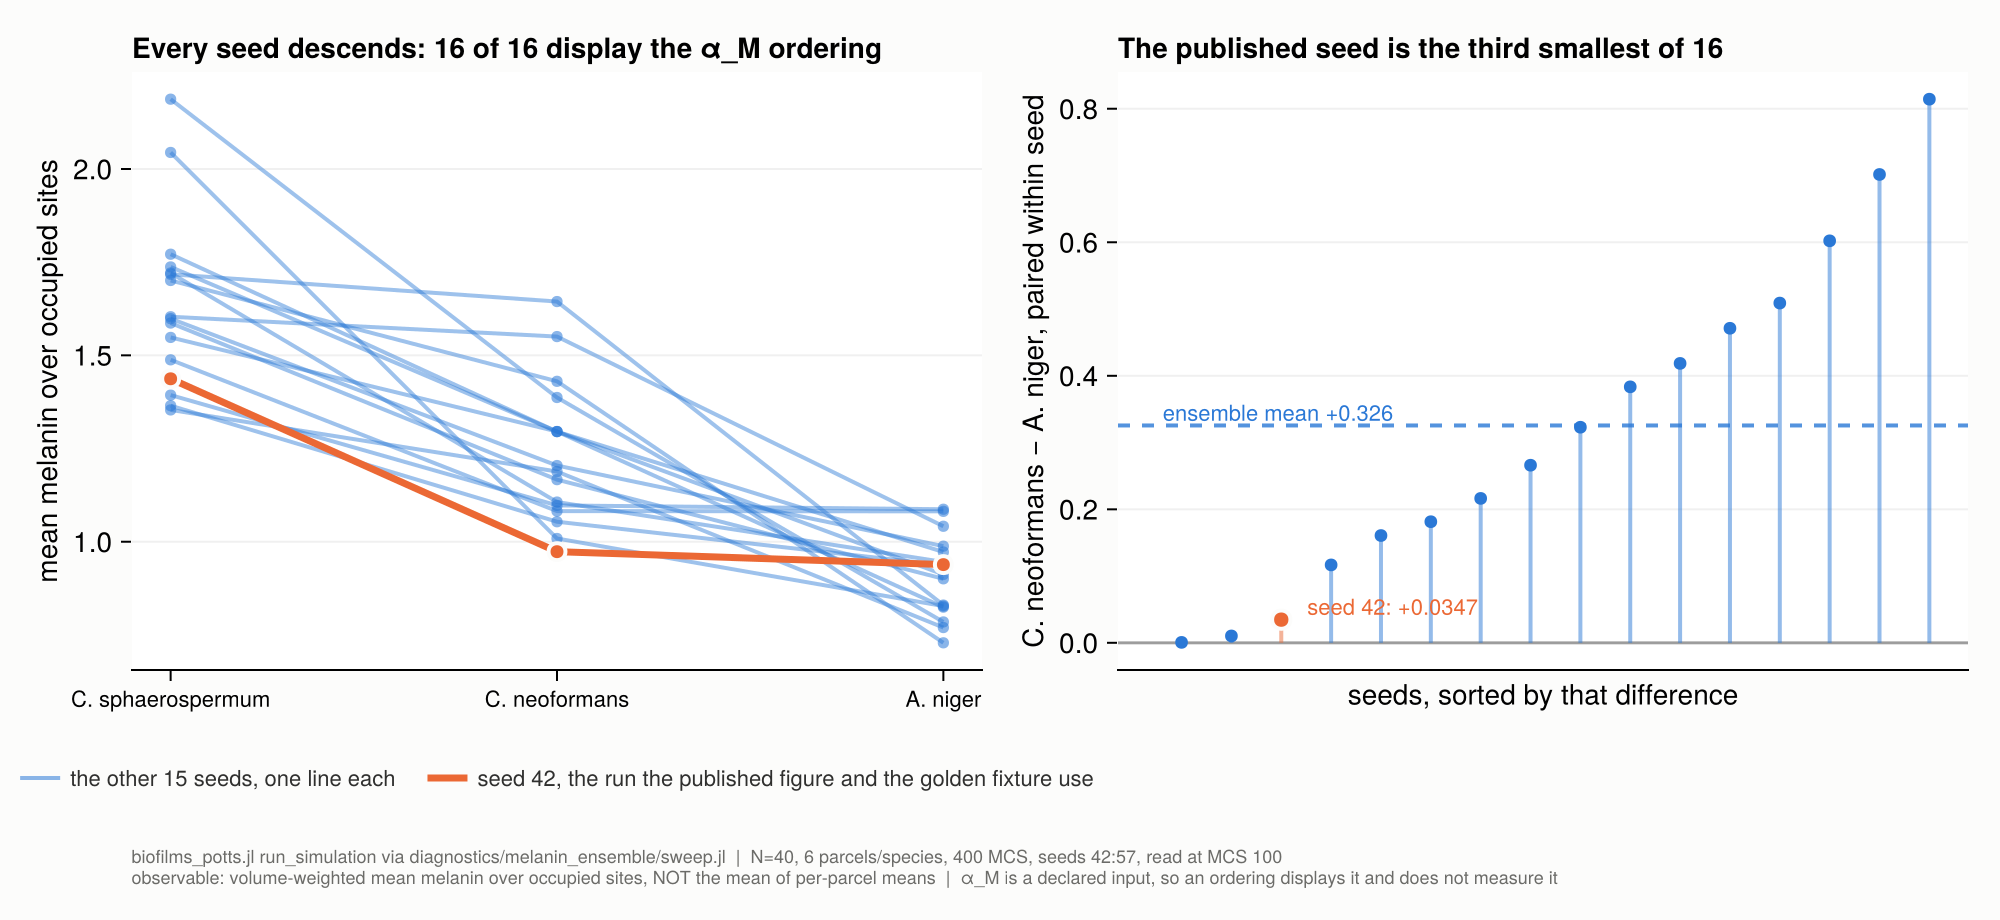
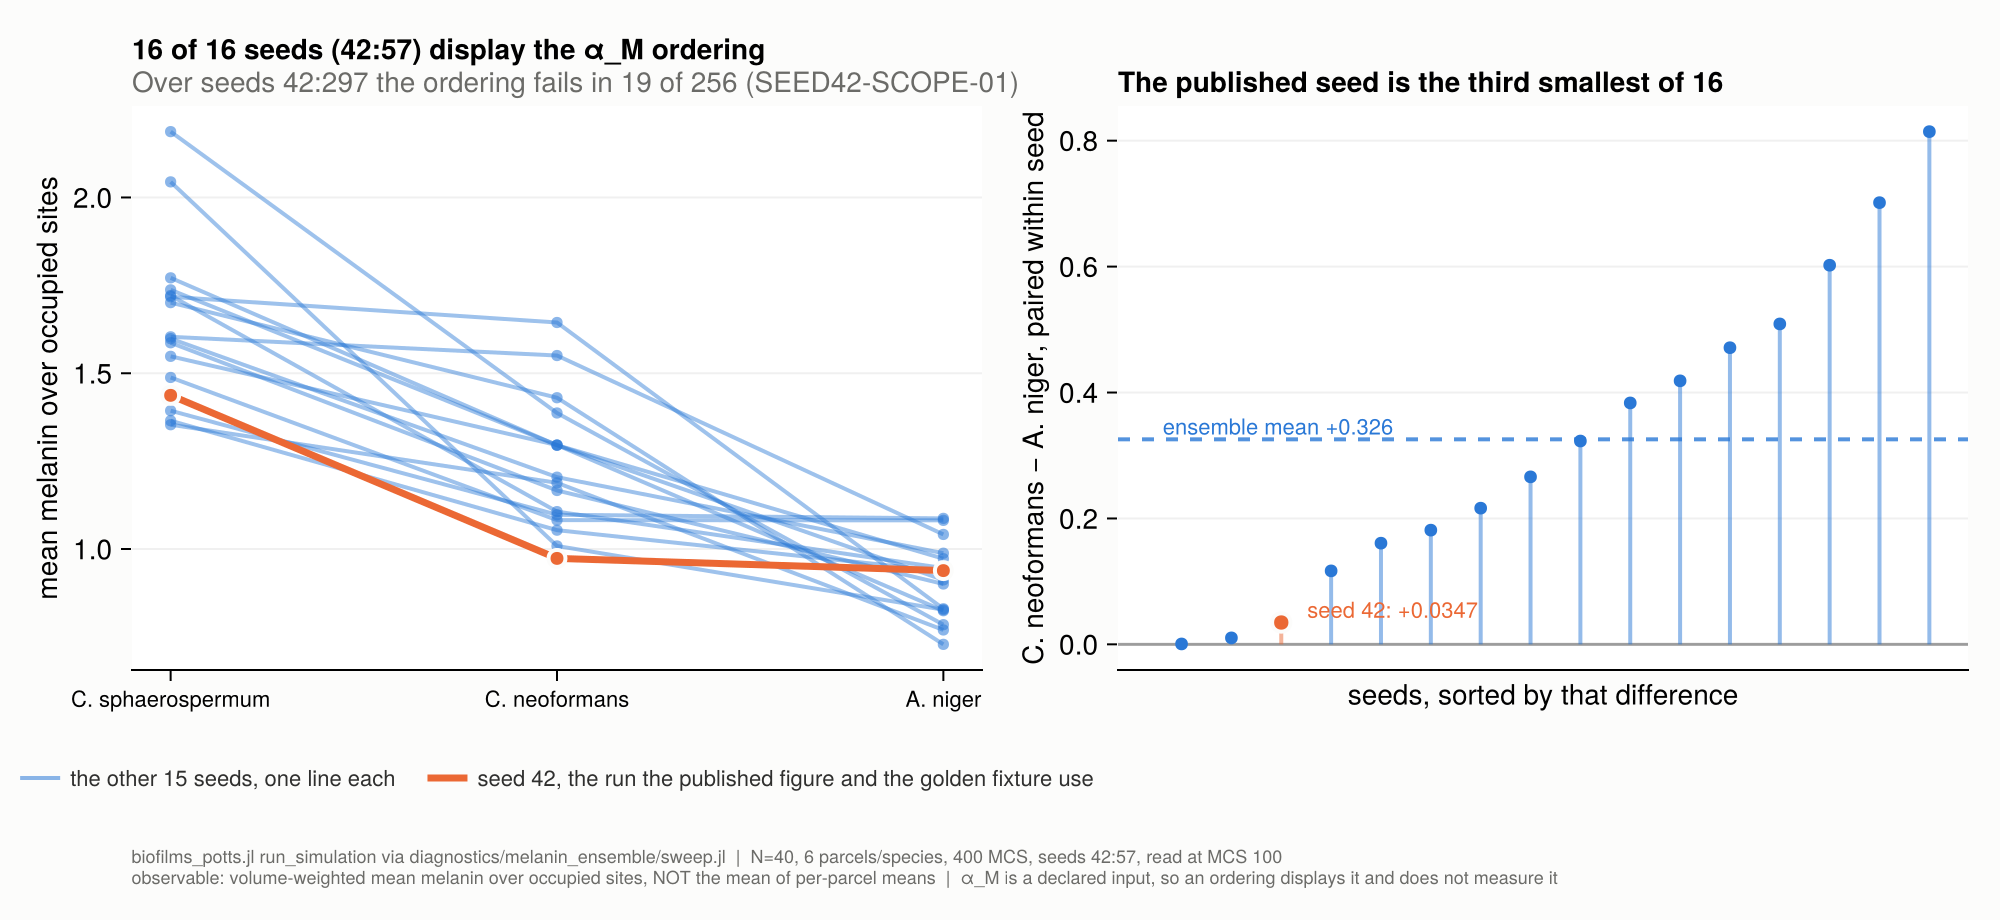
The melanin figure hashes its PDF, is held to the preprint contract, and scopes its title
figure.jl wrote the PNG's hash into its .sha256 and said that made it compliant
with preprint/figures/, whose guard compares the receipt against the PDF. The
PNG was chosen because cairo stamps a CreationDate into the PDF; that bought a
render-stable hash nothing checked and left the PDF the .txt is read from
unbound. It now hashes the PDF, as every other renderer does.

FIGURES is a tuple that includes diagnostics/melanin_ensemble, so the hash,
pdftotext and vocabulary checks read it. The widened hash check failed on
exactly this figure before the re-render. A new control rejects the PNG's hash
(the old receipt) and a one-byte-flipped PDF, and fails when the comparison is
weakened.

The re-render also rescopes panel A: "Every seed descends: 16 of 16" becomes
"16 of 16 seeds (42:57)", with the SEED42-SCOPE-01 result (19 of 256 fail over
42:297) beneath it. MEL-N40-01 gets a dated note; MEL-FIG-HASH-01 records this.
N_CITATIONS 161 -> 163.

diff --git a/calibration/tests/test_claims_ledger.py b/calibration/tests/test_claims_ledger.py
@@ -144,7 +144,15 @@ FIXTURES = Path(__file__).resolve().parent / "fixtures"
 # (RM-G08-01, RM-G10-01, PP-65-08, the last saying in as many words that "the
 # committed PNGs still carry the old reversed zone labels"); the artifact went on
 # saying the retracted thing for two weeks because nothing could fail.
-FIGURES = REPO / "preprint" / "figures"
+# The directories whose figures carry the <name>.pdf/.sha256/.txt contract. The second
+# is a diagnostic, not a manuscript figure; its generator said it was already compliant
+# while hashing its PNG, and nothing here read it (MEL-FIG-HASH-01).
+FIGURES = (REPO / "preprint" / "figures",
+           REPO / "diagnostics" / "melanin_ensemble")
+
+
+def figure_pdfs() -> list[Path]:
+    return sorted(p for d in FIGURES for p in d.glob("*.pdf"))
 
 
 def document_path(document: str) -> Path | None:
@@ -999,7 +1007,8 @@ RETRACTED_IN_FIGURES = ("radiotroph", "gy cumulative",
 
 
 def figure_sidecars() -> list[Path]:
-    return sorted(FIGURES.glob("*.txt"))
+    # Beside a PDF, not every .txt: the diagnostic directory also holds analysis text.
+    return [p.with_suffix(".txt") for p in figure_pdfs()]
 
 
 def retracted_vocabulary_hits(paths) -> list[tuple]:
@@ -1123,6 +1132,22 @@ def test_no_figure_row_is_reachable_by_the_phrase_guard(rows):
         f"not fire on every known-bad artifact: {sorted(covered)}")
 
 
+def stale_figure_hashes(pdfs) -> list[str]:
+    """Names of the PDFs whose `<name>.sha256` is not the sha256 of the PDF's own
+    bytes. Takes PATHS so the control can drive it with a known-bad copy."""
+    import hashlib
+
+    stale = []
+    for pdf in pdfs:
+        recorded = pdf.with_suffix(".sha256")
+        assert recorded.is_file(), f"{pdf.name} has no committed hash"
+        actual = hashlib.sha256(pdf.read_bytes()).hexdigest()
+        if actual != recorded.read_text(encoding="utf-8").strip():
+            stale.append(pdf.name)
+        assert pdf.with_suffix(".txt").is_file(), f"{pdf.name} has no text sidecar"
+    return stale
+
+
 def test_every_committed_figure_matches_its_hash():
     """THE HALF THAT MAKES THE SIDECAR WORTH ANYTHING.
 
@@ -1133,20 +1158,55 @@ def test_every_committed_figure_matches_its_hash():
     it. So the PDF's own bytes are pinned, in pure stdlib, and a figure that
     moves without its sidecar fails here.
     """
-    import hashlib
-
-    stale = []
-    for pdf in sorted(FIGURES.glob("*.pdf")):
-        recorded = pdf.with_suffix(".sha256")
-        assert recorded.is_file(), f"{pdf.name} has no committed hash"
-        actual = hashlib.sha256(pdf.read_bytes()).hexdigest()
-        if actual != recorded.read_text(encoding="utf-8").strip():
-            stale.append(pdf.name)
-        assert pdf.with_suffix(".txt").is_file(), f"{pdf.name} has no text sidecar"
+    stale = stale_figure_hashes(figure_pdfs())
     assert not stale, (
         "these figures changed without their sidecar and hash being "
         f"regenerated, so every text check above read the OLD figure: {stale}. "
         "Re-run the export, then `pdftotext -layout` and `sha256sum` for each.")
+
+
+def test_the_hash_check_rejects_a_png_hash_and_a_moved_pdf(tmp_path):
+    """THE CONTROL for the check above, on the figure that failed it unseen.
+
+    Until 2026-09-24 diagnostics/melanin_ensemble/figure.jl wrote the PNG's hash
+    into `<name>.sha256` and said that made it compliant here. The PNG's hash IS
+    that old receipt, byte for byte, so it is taken from the committed PNG rather
+    than recalled. A copy with the PDF's hash must pass, or the two rejections
+    below could be the copy's fault rather than the check's.
+    """
+    import hashlib
+    import shutil
+
+    name = "melanin_ensemble_n40_p6"
+    pdfs = [p for p in figure_pdfs() if p.stem == name]
+    assert len(pdfs) == 1, f"the widened glob did not reach {name}.pdf"
+    src = pdfs[0]
+    pdf = tmp_path / src.name
+    shutil.copy(src, pdf)
+    shutil.copy(src.with_suffix(".txt"), pdf.with_suffix(".txt"))
+    receipt = pdf.with_suffix(".sha256")
+
+    def digest(b: bytes) -> str:
+        return hashlib.sha256(b).hexdigest()
+
+    receipt.write_text(digest(src.read_bytes()) + "\n", encoding="utf-8")
+    assert stale_figure_hashes([pdf]) == []
+
+    # 1. The receipt figure.jl wrote before this change: the PNG's hash.
+    png_hash = digest(src.with_suffix(".png").read_bytes())
+    assert png_hash != digest(src.read_bytes())            # the mutation applied
+    receipt.write_text(png_hash + "\n", encoding="utf-8")
+    assert stale_figure_hashes([pdf]) == [pdf.name]
+
+    # 2. The right receipt, and a PDF that moved by one byte after it was written.
+    receipt.write_text(digest(src.read_bytes()) + "\n", encoding="utf-8")
+    body = bytearray(src.read_bytes())
+    at = len(body) // 2
+    body[at] ^= 0xFF
+    pdf.write_bytes(bytes(body))
+    original = src.read_bytes()
+    assert [i for i in range(len(body)) if body[i] != original[i]] == [at]
+    assert stale_figure_hashes([pdf]) == [pdf.name]
 
 
 def test_the_sidecars_are_what_pdftotext_actually_produces():
@@ -1165,7 +1225,7 @@ def test_the_sidecars_are_what_pdftotext_actually_produces():
         pytest.skip("pdftotext absent: hash + vocabulary tiers still cover this")
 
     drifted = []
-    for pdf in sorted(FIGURES.glob("*.pdf")):
+    for pdf in figure_pdfs():
         got = subprocess.run(["pdftotext", "-layout", str(pdf), "-"],
                              capture_output=True, text=True)
         assert got.returncode == 0, f"pdftotext failed on {pdf.name}"

diff --git a/calibration/tests/test_claims_citations.py b/calibration/tests/test_claims_citations.py
@@ -74,7 +74,7 @@ BARE_ALLOWED = {("HANDOUT-02", "wan-deck.tex:153-155")}
 
 # A tripwire, not a target. A new citation changes it; update it in the same commit. It is
 # here so that a pattern which silently stops matching cannot pass on zero citations.
-N_CITATIONS = 161
+N_CITATIONS = 163
 
 # A pinned commit must be an ancestor of this ref. CI fetches with depth 0, so it is there.
 ANCESTOR_OF = "origin/master"
